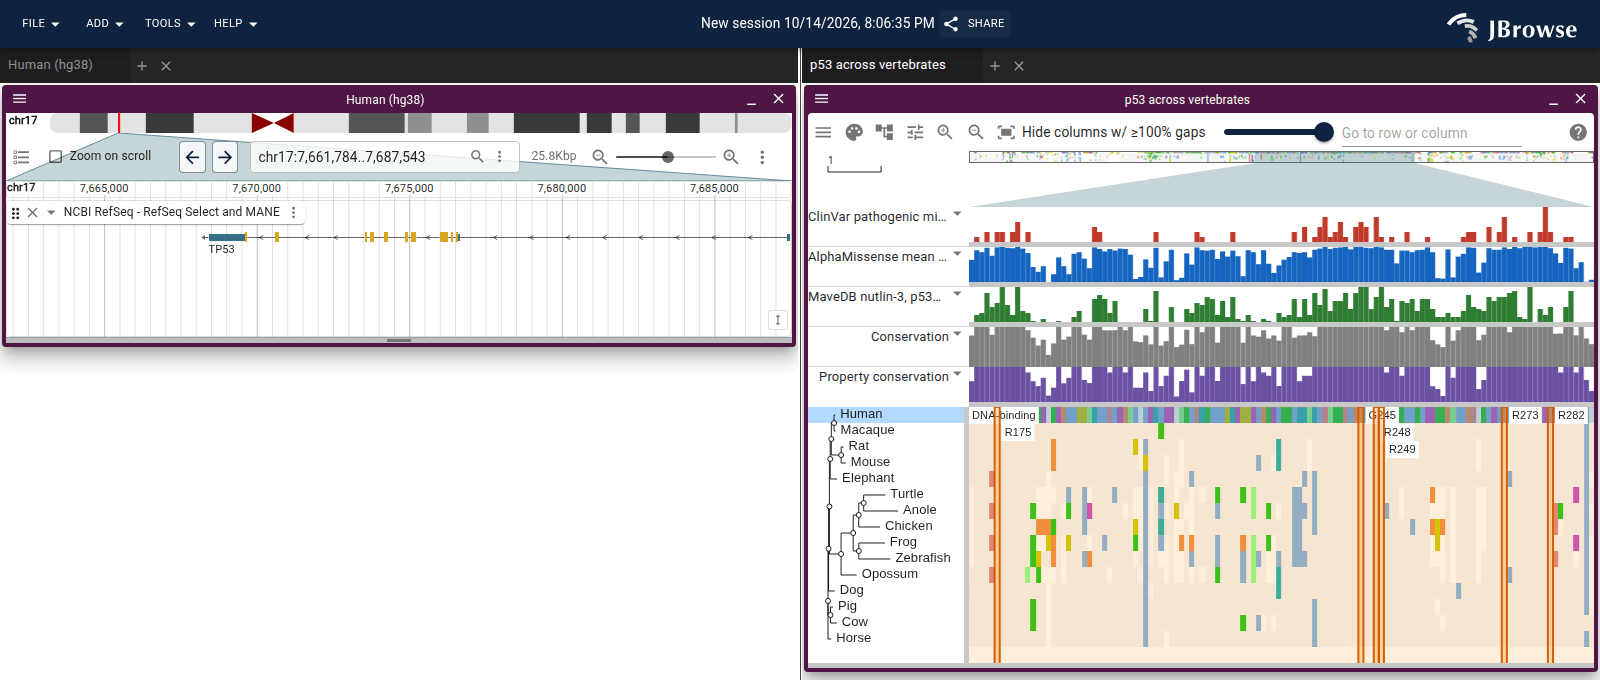
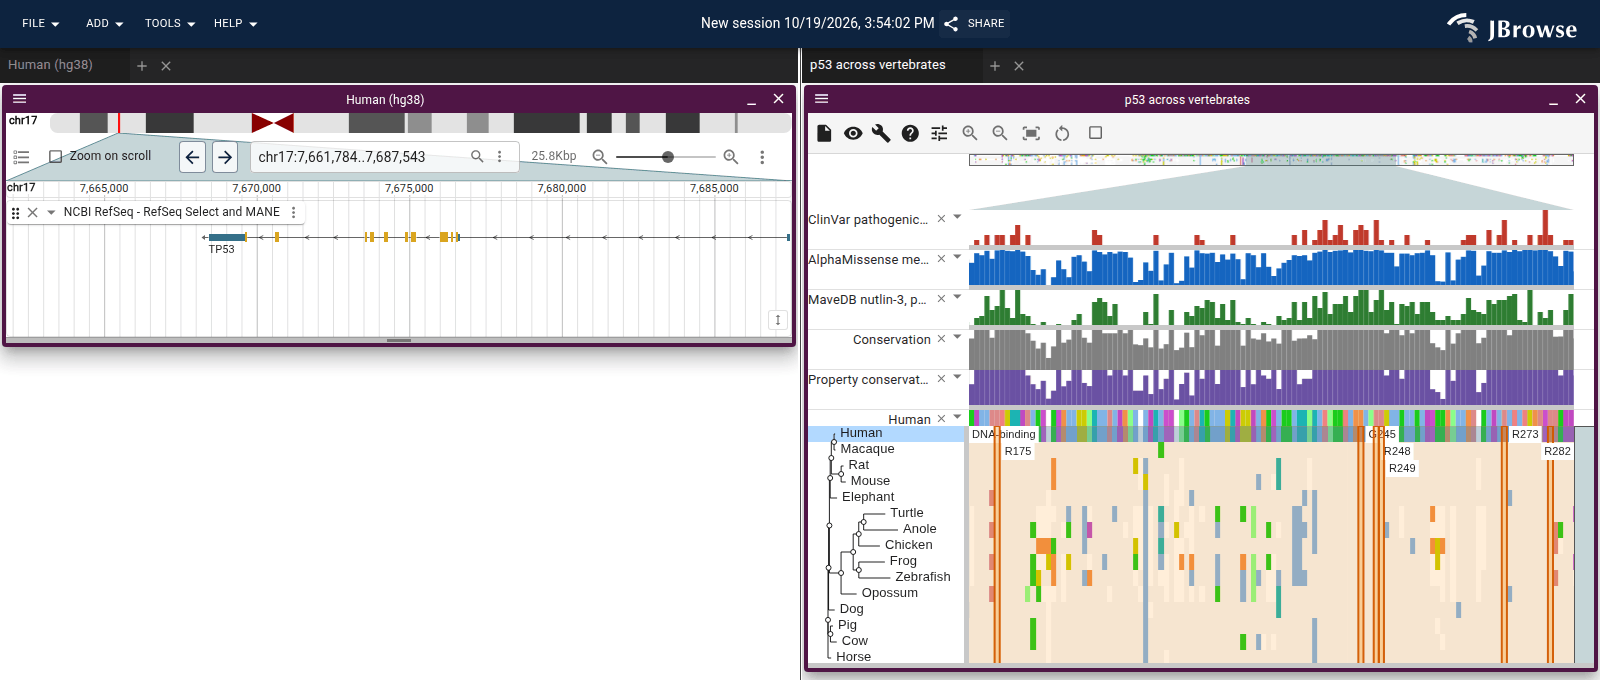
5.7.0

diff --git a/src/version.ts b/src/version.ts
@@ -1,1 +1,1 @@
-export const version = '5.6.0'
+export const version = '5.7.0'

diff --git a/CHANGELOG.md b/CHANGELOG.md
@@ -1,3 +1,9 @@
+## [5.7.0](https://github.com/GMOD/jbrowse-plugin-msaview/compare/v5.6.0...v5.7.0) (2026-10-19)
+
+### Other Changes
+
+- React-msaview 9.3: the File/View/Tools/Help menu bar ([30feed9](https://github.com/GMOD/jbrowse-plugin-msaview/commit/30feed90a8dd45f4ee6005094052a4650d9a1af4))
+
 ## [5.6.0](https://github.com/GMOD/jbrowse-plugin-msaview/compare/v5.5.0...v5.6.0) (2026-10-19)
 
 ### Other Changes
